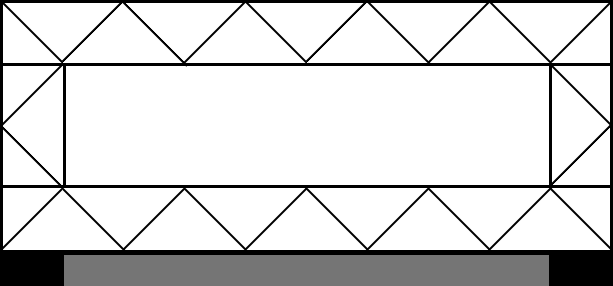
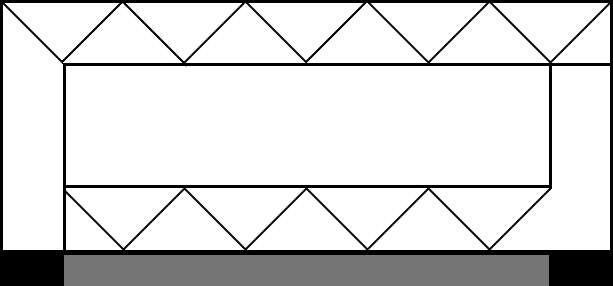
fires and firework launchers has pre-calculated rects; bridge looks better or worse I am not sure

diff --git a/resources/level1.js b/resources/level1.js
@@ -2,7 +2,7 @@
 	bitmapImage: "level1.gif", bitmapWidth: 6000, bitmapHeight: 430, collisionMap: [],
 
     player: {
-        startPosition: { x: 3000, y: 344 },
+        startPosition: { x: 50, y: 344 },
     },
 
 	objects: {
@@ -41,12 +41,12 @@
 		],
 
 		blockFurniture: [
-			{ name: "bridgebody", shape: { x: 2364, y: 207, w: 487, h: 20 }, visible: false },
+			{ name: "bridgebody", shape: { x: 2364, y: 207, w: 551, h: 20 }, visible: false },
 			{ name: "bridgebollard1", shape: { x: 2400, y: 369, w: 20, h: 27 }, visible: true },
 			{ name: "bridgebollard2", shape: { x: 2600, y: 369, w: 20, h: 27 }, visible: true },
 			{ name: "bridgebollard3", shape: { x: 2800, y: 369, w: 20, h: 27 }, visible: true },
 
-			{ name: "scaffoldingafterbridge", shape: { x: 2950, y: 270, w: 280, h: 10 }, visible: false },
+			{ name: "scaffoldingafterbridge", shape: { x: 2970, y: 270, w: 280, h: 10 }, visible: false },
 
 			{ name: "bunkerfrontblock", shape: { x: 3300, y: 362, w: 20, h: 34 }, visible: true },
 			{ name: "bunkerfrontwall", shape: { x: 3300, y: 284, w: 20, h: 65 }, visible: true },
@@ -97,13 +97,13 @@
 		],
 
         barrels: [
-            { name: "bridge", x: 2600, y: 180 },
-            { name: "bridge", x: 3400, y: 369 },
+            { name: "bridgebarrel", x: 2600, y: 180 },
+            { name: "bridgebarrel", x: 3450, y: 369 },
         ],
 
         windows: [
-            { name: "skylight", x: 3355, y: 284, width: 60, height: 2 },
-            { name: "bunkerbackwall", x: 3533, y: 314, width: 2, height: 50 },
+            { name: "skylightwindow", x: 3355, y: 284, width: 60, height: 2 },
+            { name: "bunkerbackwallwindow", x: 3532, y: 314, width: 3, height: 50 },
         ],
 
 		parallaxes: [
@@ -145,7 +145,7 @@
 				sprite: { bitmapImage: "bridge.png", sprites: { "main": { "f" : [0, 0, 613, 286] } } }
 			},
 			{
-				name: "scaffolding", x: 2950, y: 222, scrollAttenuation: 0, zIndex: 2001,
+				name: "scaffolding", x: 2970, y: 222, scrollAttenuation: 0, zIndex: 2001,
 				sprite: { bitmapImage: "scaffolding.gif", sprites: { "main": { "f" : [0, 0, 280, 51] } } }
 			},
 			{

diff --git a/game/fireworklauncher.js b/game/fireworklauncher.js
@@ -1,34 +1,29 @@
 Engine.initObject("FireworkLauncher", "Base", function() {
 	var FireworkLauncher = Base.extend({
 		launchTimer: null,
-		x: 0,
-		y: 0,
+        staticRect: null,
 
 		constructor: function(name, field, renderContext, x, y, angle, spread, interval) {
-			this.x = x;
-			this.y = y;
+            this.staticRect = new CheapRect(null, x, y, x + 1, y + 1);
+
 			this.launch(name, field, renderContext, x, y, angle, spread); // initial launch
-			
+
 			// setup launch timer
 			var fireworkLauncher = this;
 			this.contrailTimer = Interval.create(name, interval,
 				function() {
 					if(field.inView(fireworkLauncher))
-						fireworkLauncher.launch(name, field, renderContext, x, y, angle, spread);
+						fireworkLauncher.launch(name + "firework", field, renderContext, x, y, angle, spread);
 			});
 		},
-		
+
 		launch: function(name, field, renderContext, x, y, angle, spread) {
 			var launchAngle = (angle - (spread / 2)) + (Math.random() * spread);
-			var firework = new Firework(name, field, x, y, launchAngle);	
+			var firework = new Firework(name, field, x, y, launchAngle);
 			renderContext.add(firework);
 		},
-		
-		getPosition: function() { return Point2D.create(this.x, this.y); },
-		getBoundingBox: function() { return new Rectangle2D(this.x, this.y, 1, 1); },
-		
 	}, {
-		
+
 		getClassName: function() { return "FireworkLauncher"; },
 	});
 

diff --git a/game/fire.js b/game/fire.js
@@ -1,25 +1,20 @@
 Engine.initObject("Fire", "Base", function() {
 	var Fire = Base.extend({
-		x: 0,
-		y: 0,
-		width: 0,
-		
 		fireTimer: null,
 		fireExtinguishTimer: null,
 		sparkInterval: 10,
-		
+        staticRect: null,
+
 		constructor: function(name, field, x, y, width) {
-			this.x = x;
-			this.y = y;
-			this.width = width;
-			var maxTTL = 250;
-						
+            this.staticRect = new CheapRect(null, x, y, x + width, y + 1);
+			var maxTTL = Fire.FIRE_PARTICLE_TTL;
+
 			this.fireTimer = Interval.create(this.name, this.sparkInterval,
 				function() {
 					field.pEngine.addParticle(FireParticle.create(x, y, width, maxTTL));
 			});
 
-			var fire = this;			
+			var fire = this;
 			this.fireExtinguishTimer = Interval.create(this.name + "Extinguish", 2000,
 				function() {
 					if(!field.inView(fire))
@@ -29,13 +24,10 @@ Engine.initObject("Fire", "Base", function() {
 					}
 			});
 		},
-		
-		getPosition: function() { return Point2D.create(this.x, this.y); },
-		getBoundingBox: function() { return new Rectangle2D(this.x, this.y, this.width, 1); },
-		
 	}, {
 		getClassName: function() { return "Fire"; },
-		
+
+        FIRE_PARTICLE_TTL: 250,
 	});
 
 	return Fire;

diff --git a/game/grenadelauncher.js b/game/grenadelauncher.js
@@ -28,7 +28,7 @@ Engine.initObject("GrenadeLauncher", "IndirectWeapon", function() {
 		},
 
         THROW: "throw",
-        MAX_GRENADES: 20,
+        MAX_GRENADES: 3,
         METER_CARET_SPACING: 14,
 	});
 
